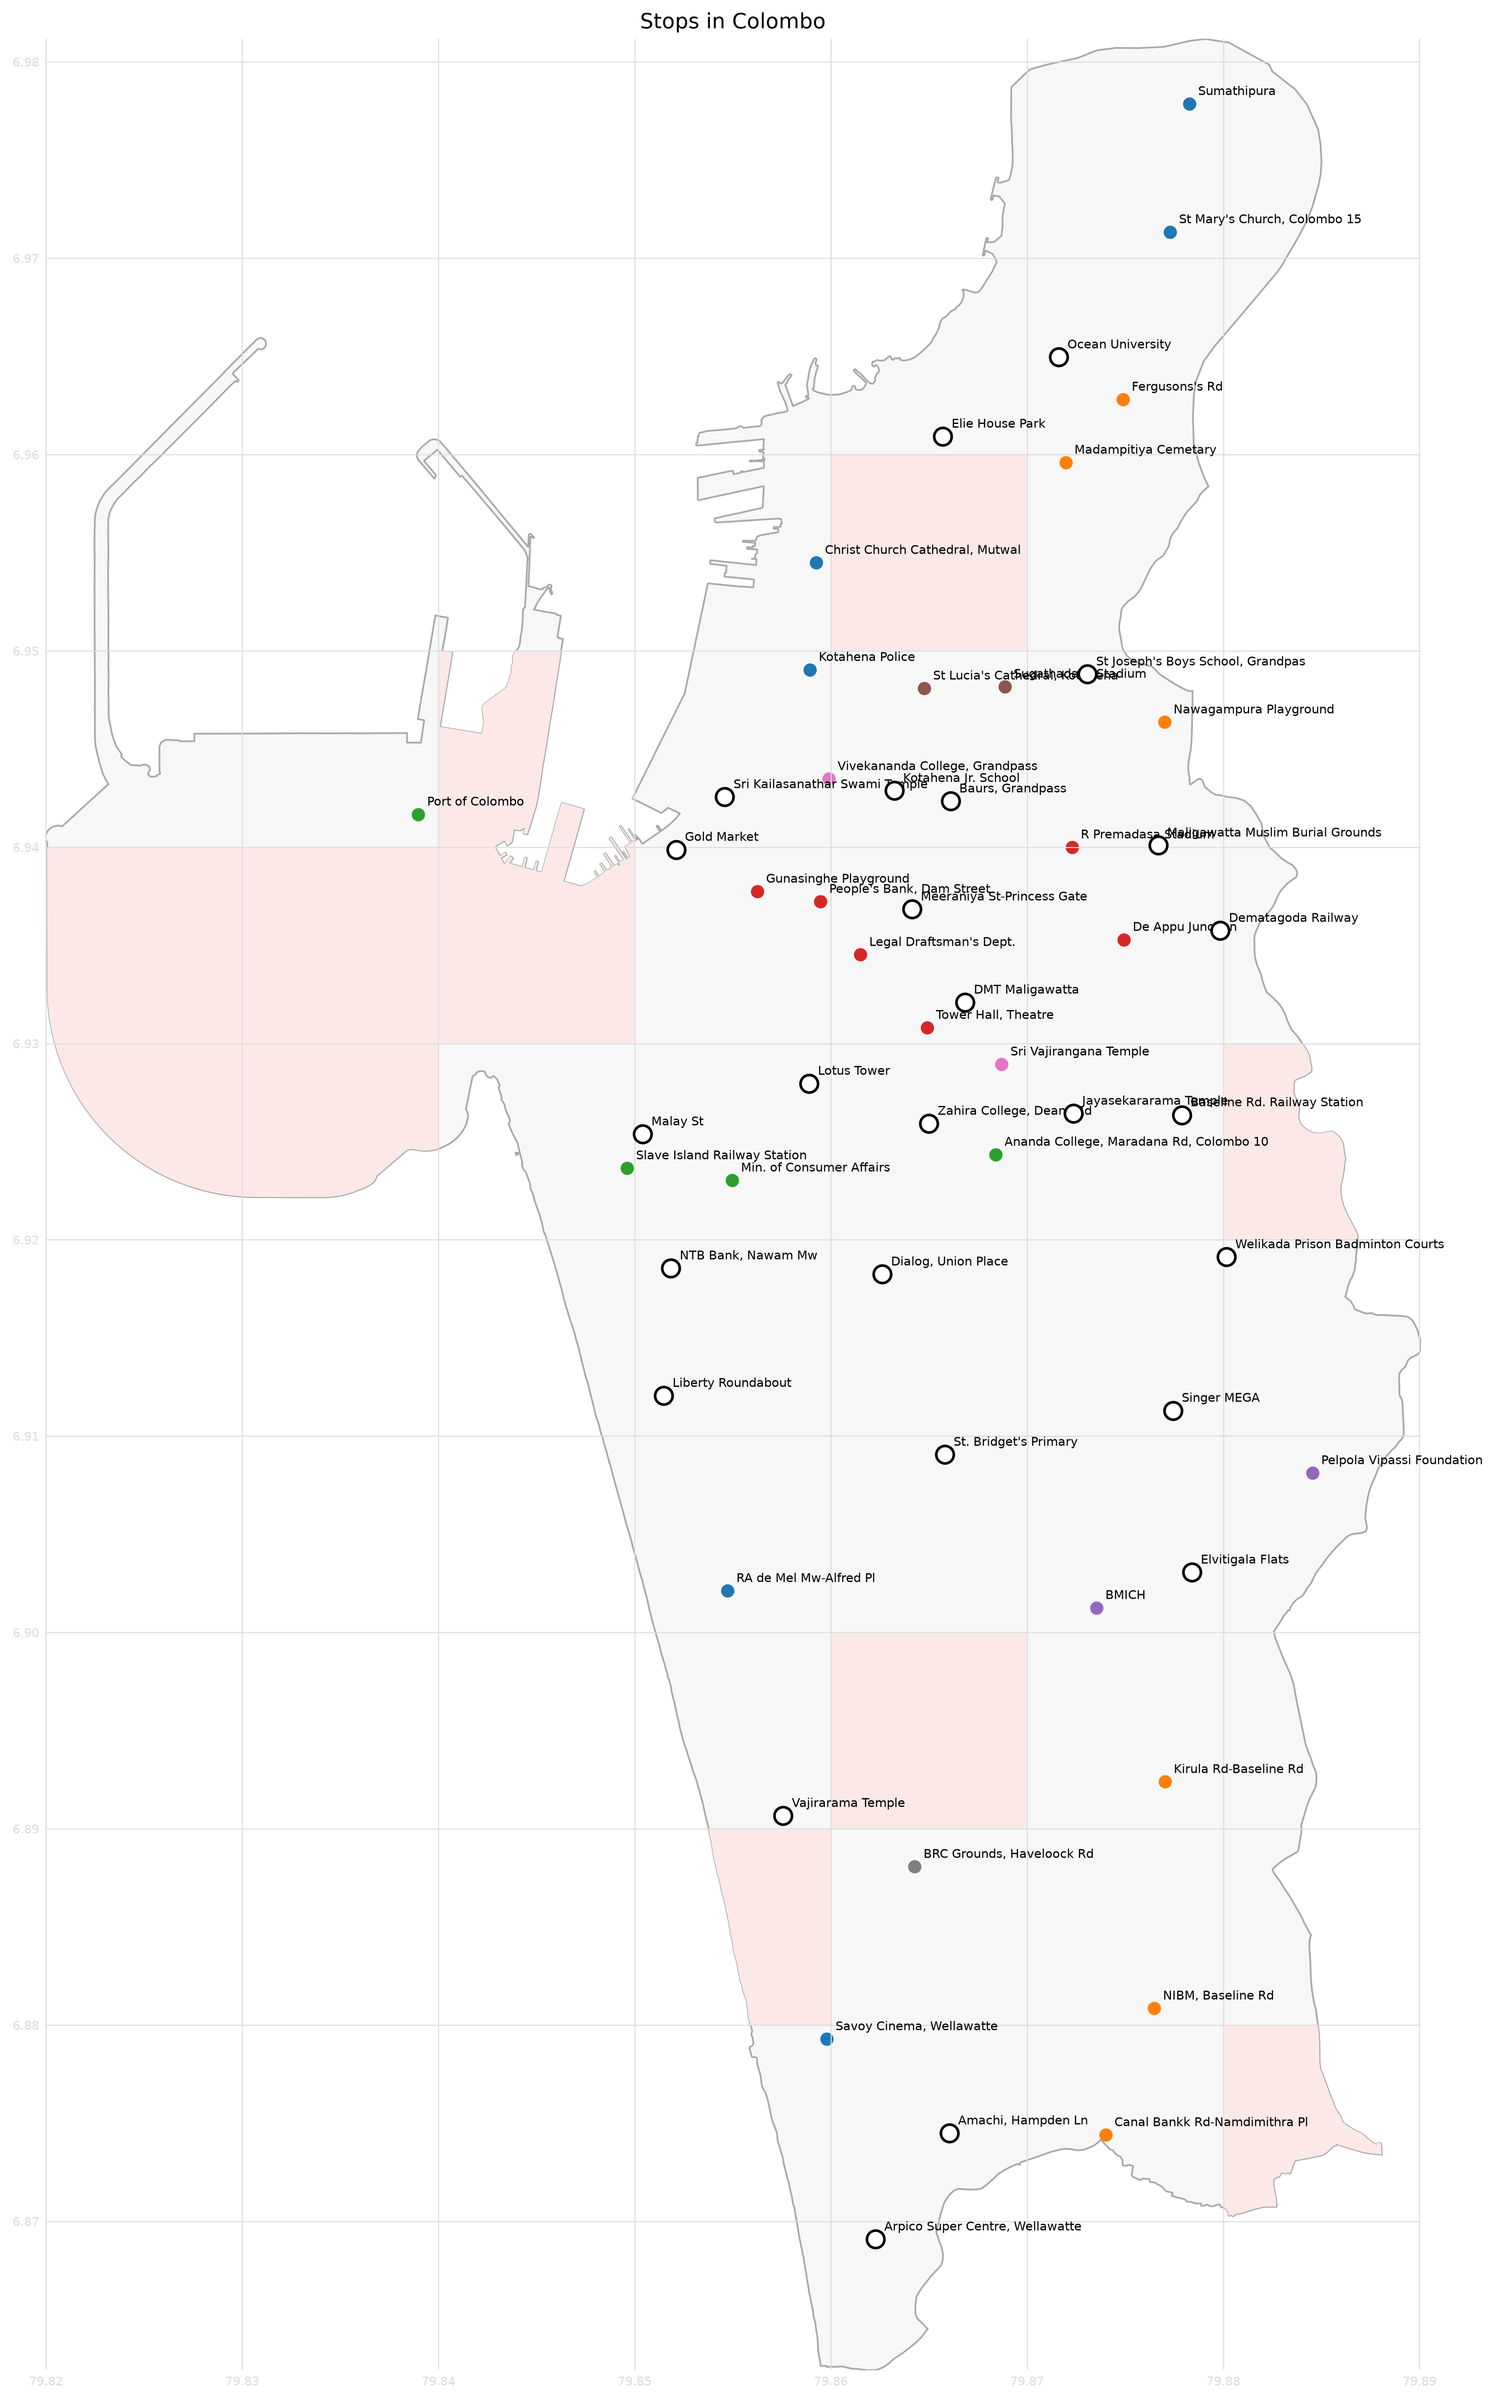
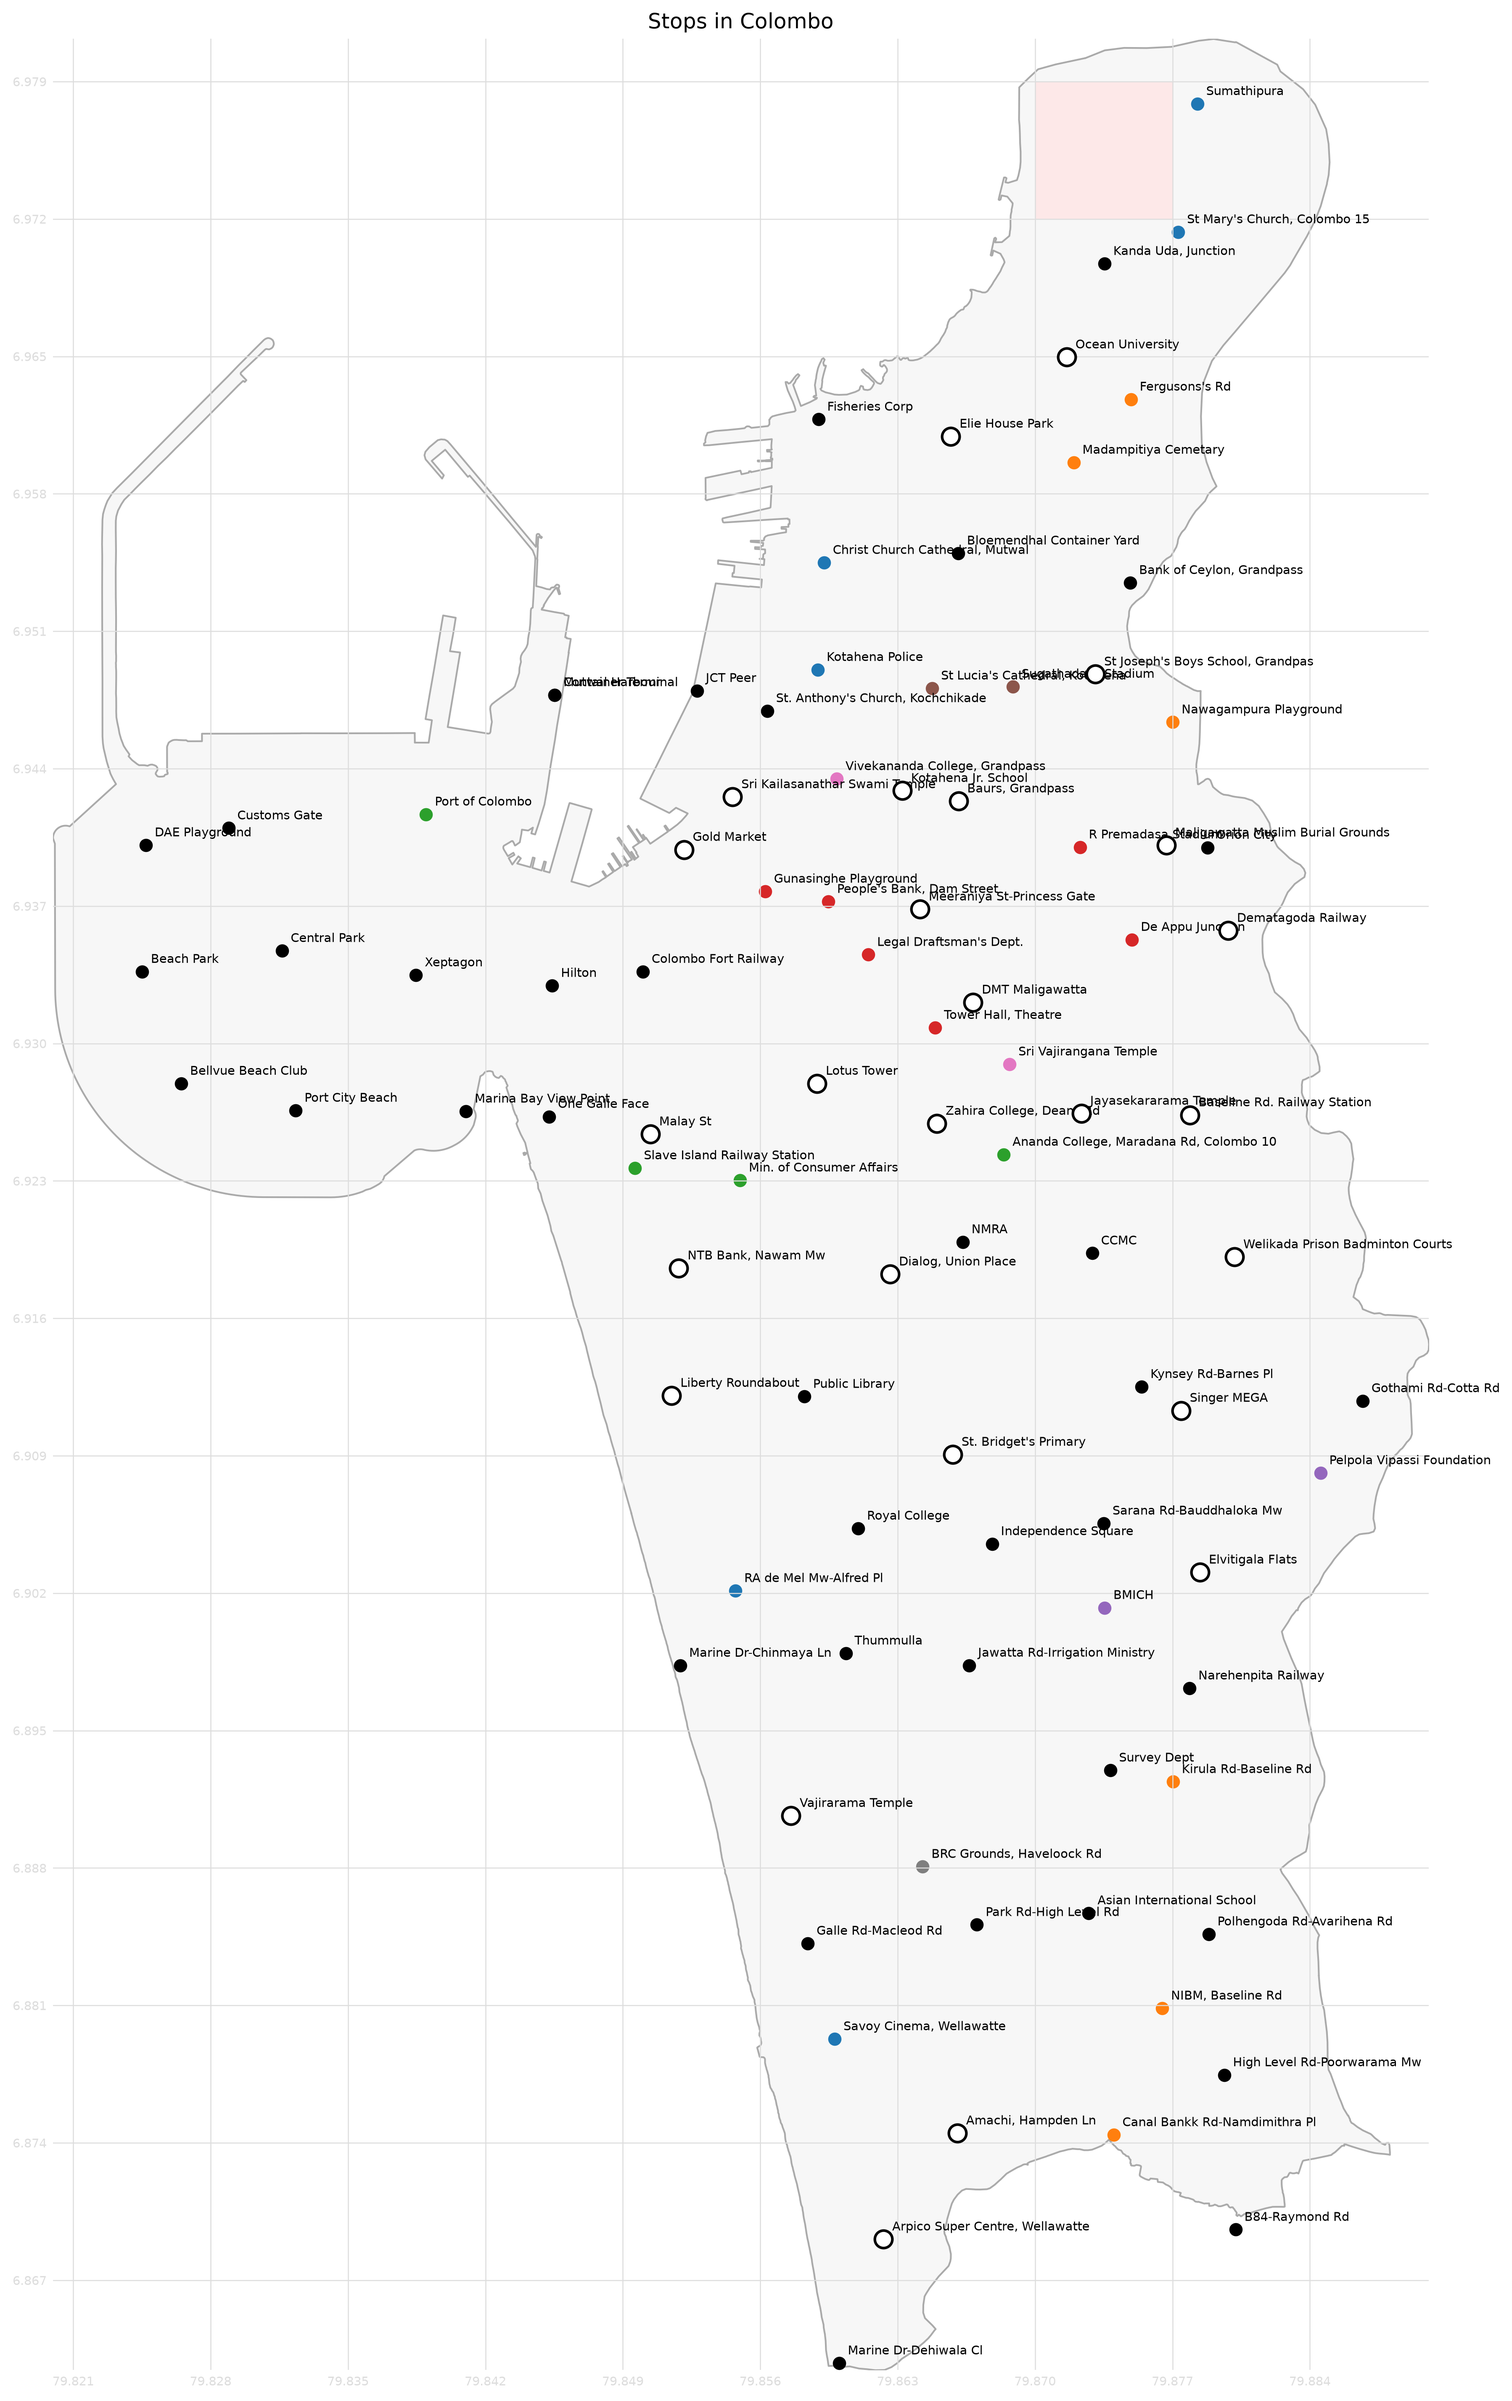
Add functionality to open uncovered grid cells in Google Maps; update pipeline execution flow

diff --git a/src/cbn/core/Place.py b/src/cbn/core/Place.py
@@ -1,9 +1,12 @@
 import os
+import random
+import webbrowser
 from dataclasses import dataclass
 from functools import cache
 from math import floor
 from typing import List
 
+from geopy.distance import geodesic
 from geopy.geocoders import Nominatim
 from gig import Ent, EntType
 from shapely.geometry import Point
@@ -19,8 +22,8 @@ class Place:
     latlng: List[float]
 
     PRECISION = 6
-    GRID_LATITUDE = 0.01
-    GRID_LONGITUDE = 0.01
+    GRID_LATITUDE = 0.007
+    GRID_LONGITUDE = 0.007
     COLOMBO_DSD_IDS = {"LK-1103", "LK-1127"}
 
     @classmethod
@@ -99,6 +102,28 @@ class Place:
         return cls.get_grid_cells() - occupied
 
     @classmethod
+    def open_random_uncovered_cells_in_google_maps(cls, limit=10):
+        uncovered = sorted(cls.get_uncovered_grid_cells())
+        selected = random.sample(uncovered, min(limit, len(uncovered)))
+        midpoints = [
+            (
+                (latitude + 0.5) * cls.GRID_LATITUDE,
+                (longitude + 0.5) * cls.GRID_LONGITUDE,
+            )
+            for latitude, longitude in selected
+        ]
+        log.info(
+            f"Opening {len(midpoints)} uncovered grid cells in Google Maps"
+        )
+        for latitude, longitude in midpoints:
+            url = (
+                "https://www.google.com/maps/search/?api=1&query="
+                f"{latitude},{longitude}"
+            )
+            webbrowser.open(url, new=2)
+        return midpoints
+
+    @classmethod
     def fill_all_latlng(cls):
         places = cls.list()
         n_filled = 0
@@ -121,7 +146,27 @@ class Place:
         uncovered = cls.get_uncovered_grid_cells()
         n_all = len(colombo_cells)
         n_covered = n_all - len(uncovered)
+        centroid = cls.get_colombo_boundary().centroid
+        latitude = centroid.y
+        longitude = centroid.x
+        height_km = geodesic(
+            (latitude, longitude),
+            (latitude + cls.GRID_LATITUDE, longitude),
+        ).km
+        width_km = geodesic(
+            (latitude, longitude),
+            (latitude, longitude + cls.GRID_LONGITUDE),
+        ).km
+        area_km2 = width_km * height_km
         log.info("-" * 32)
+        log.info(
+            f"Grid dimensions: {width_km * 1_000:.2f} m x "
+            f"{height_km * 1_000:.2f} m"
+        )
+        log.info(
+            f"Grid area: {area_km2:.4f} km² "
+            f"({area_km2 * 1_000_000:.0f} m²)"
+        )
         log.info(f"Total grid cells: {n_all}")
         log.info(f"Covered grid cells: {n_covered}")
         log.info(f"Uncovered grid cells: {len(uncovered)}")

diff --git a/workflows/pipeline.py b/workflows/pipeline.py
@@ -9,11 +9,12 @@ def run_network():
     network.Analyse()
 
 
-def run_all():
+def run_place():
     Place.fill_all_latlng()
     Place.analyze_coverage()
-    run_network()
+    Place.open_random_uncovered_cells_in_google_maps(limit=10)
 
 
 if __name__ == "__main__":
-    run_all()
+    run_place()
+    run_network()
